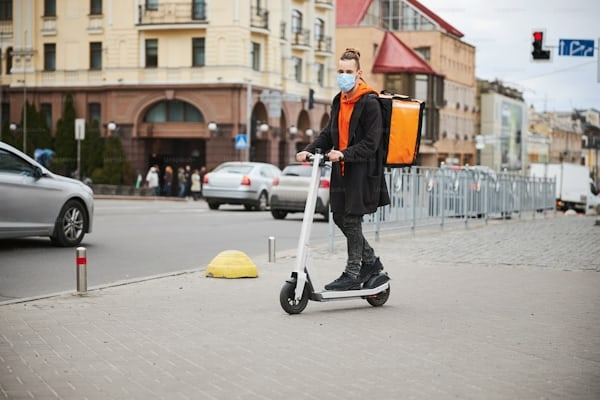
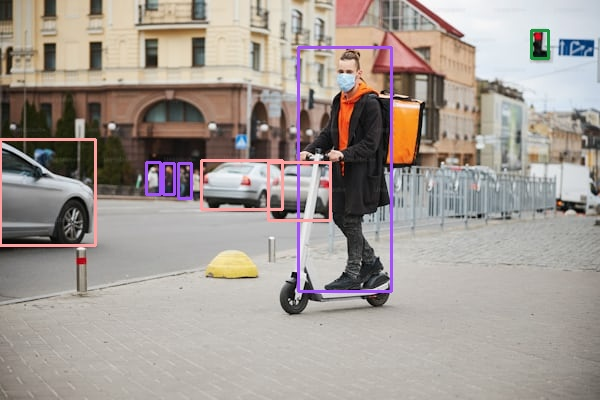
Save image before showing in window

Changed region(s): [[0.24, 0.09, 0.66, 0.75], [0.0, 0.33, 0.18, 0.63], [0.87, 0.06, 0.93, 0.15]]

diff --git a/yolo_model.py b/yolo_model.py
@@ -36,7 +36,7 @@ annotated_frame = bounding_box_annotator.annotate(
     detections=detections
 )
 
-sv.plot_image(annotated_frame)
-
 # Save the annotated image
-cv2.imwrite("bounding_boxes.jpg", image)
+cv2.imwrite("bounding_boxes.jpg", annotated_frame)
+
+sv.plot_image(annotated_frame)
